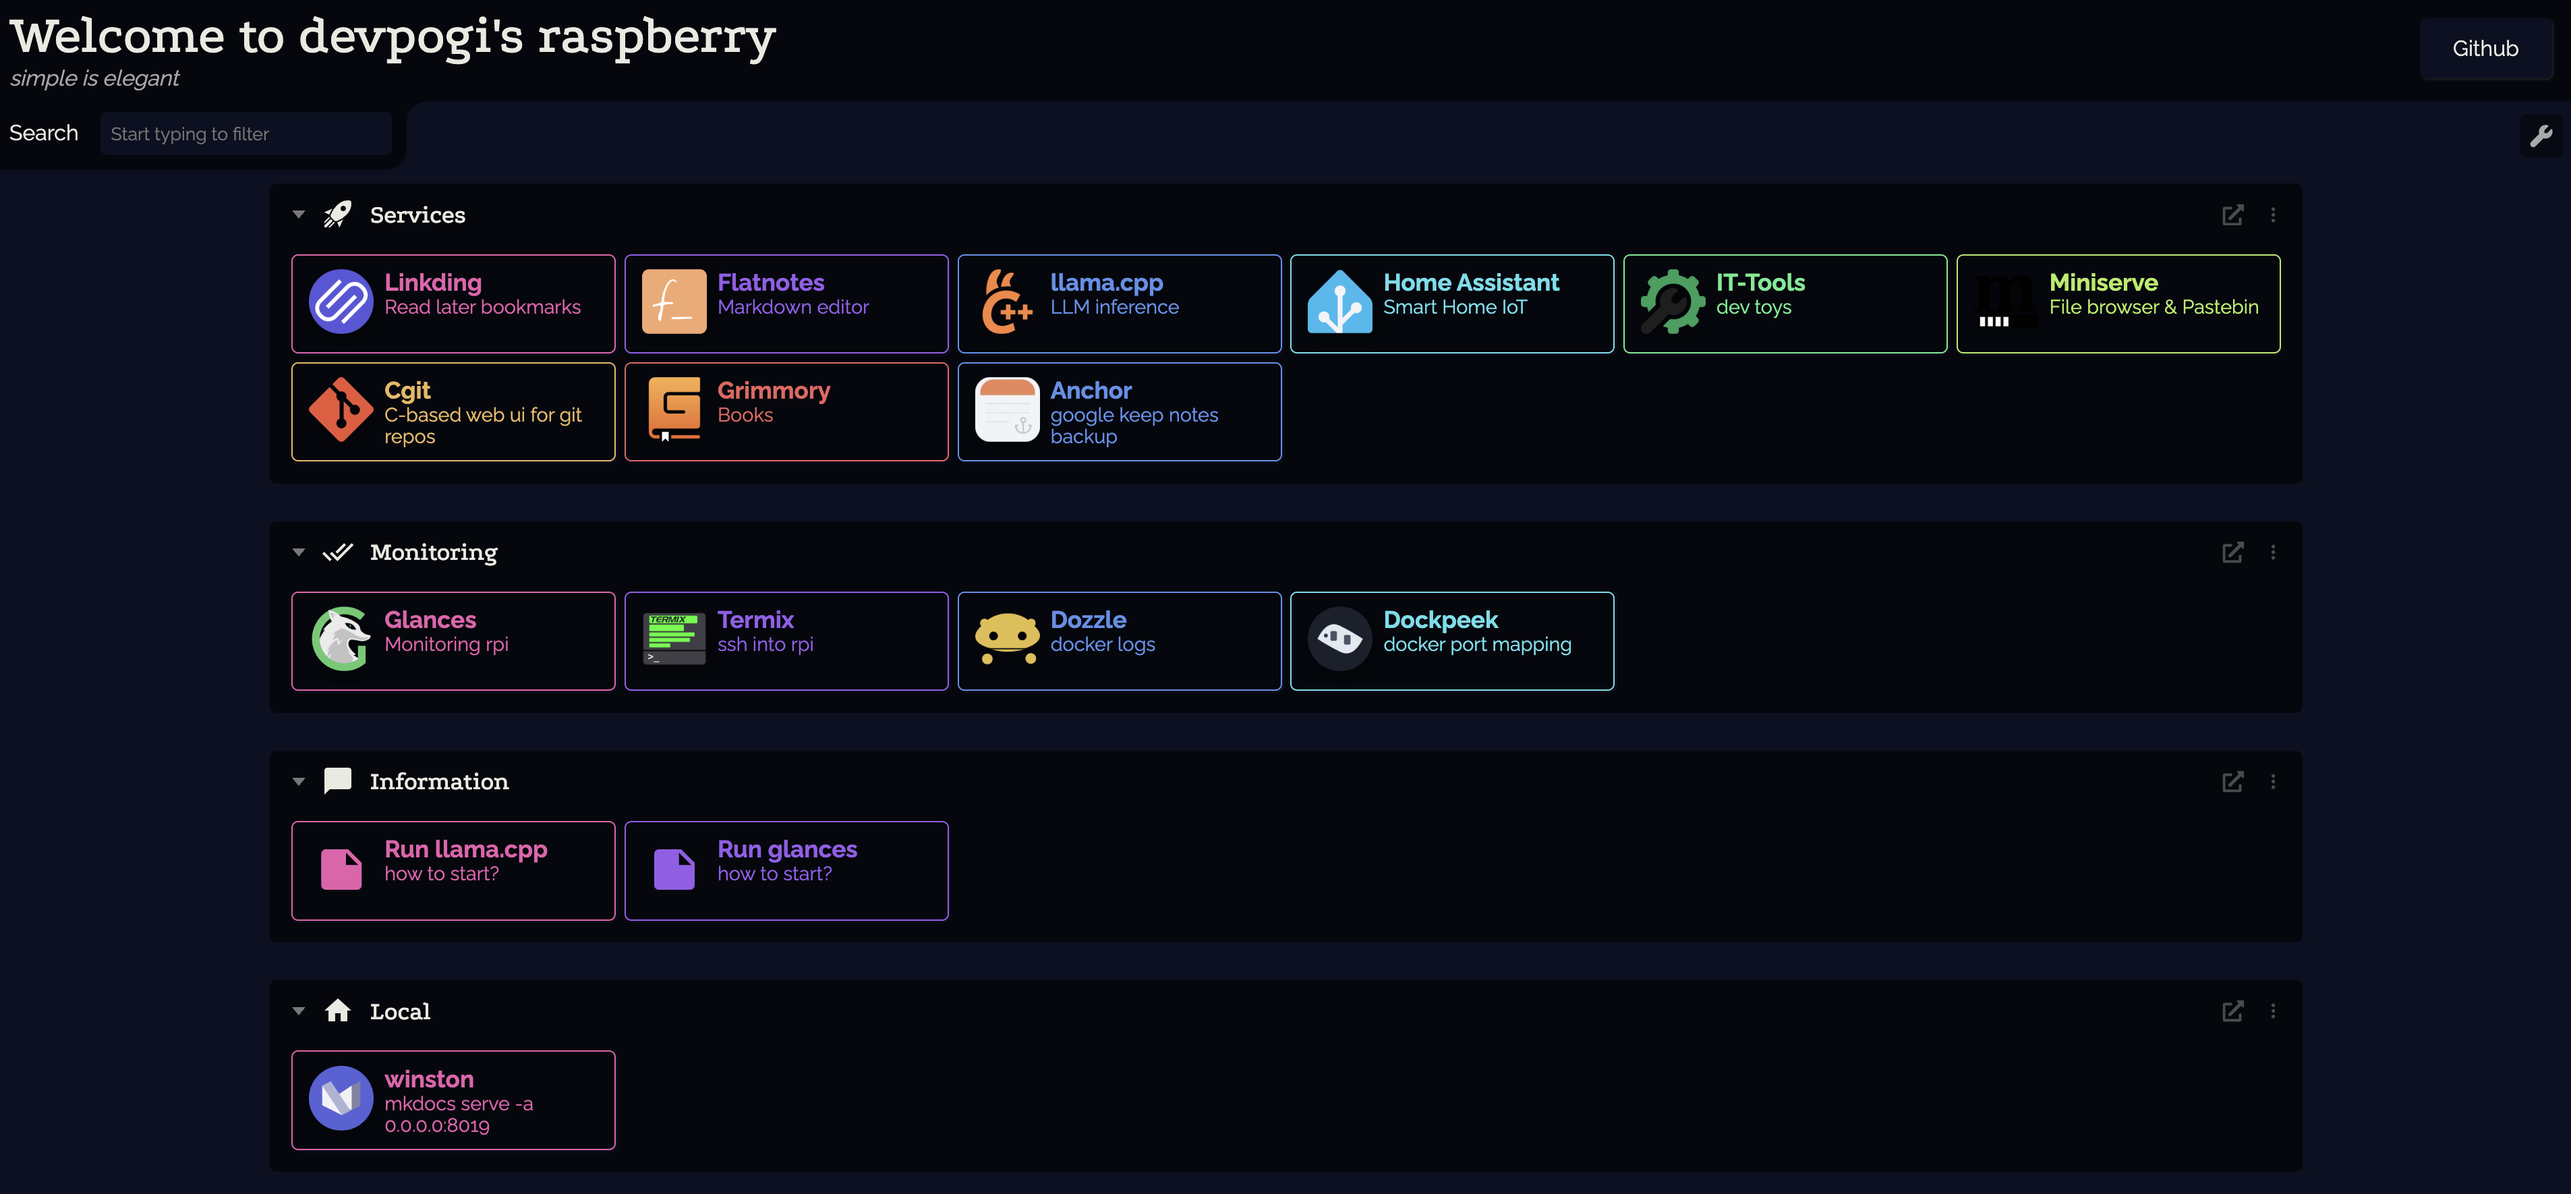
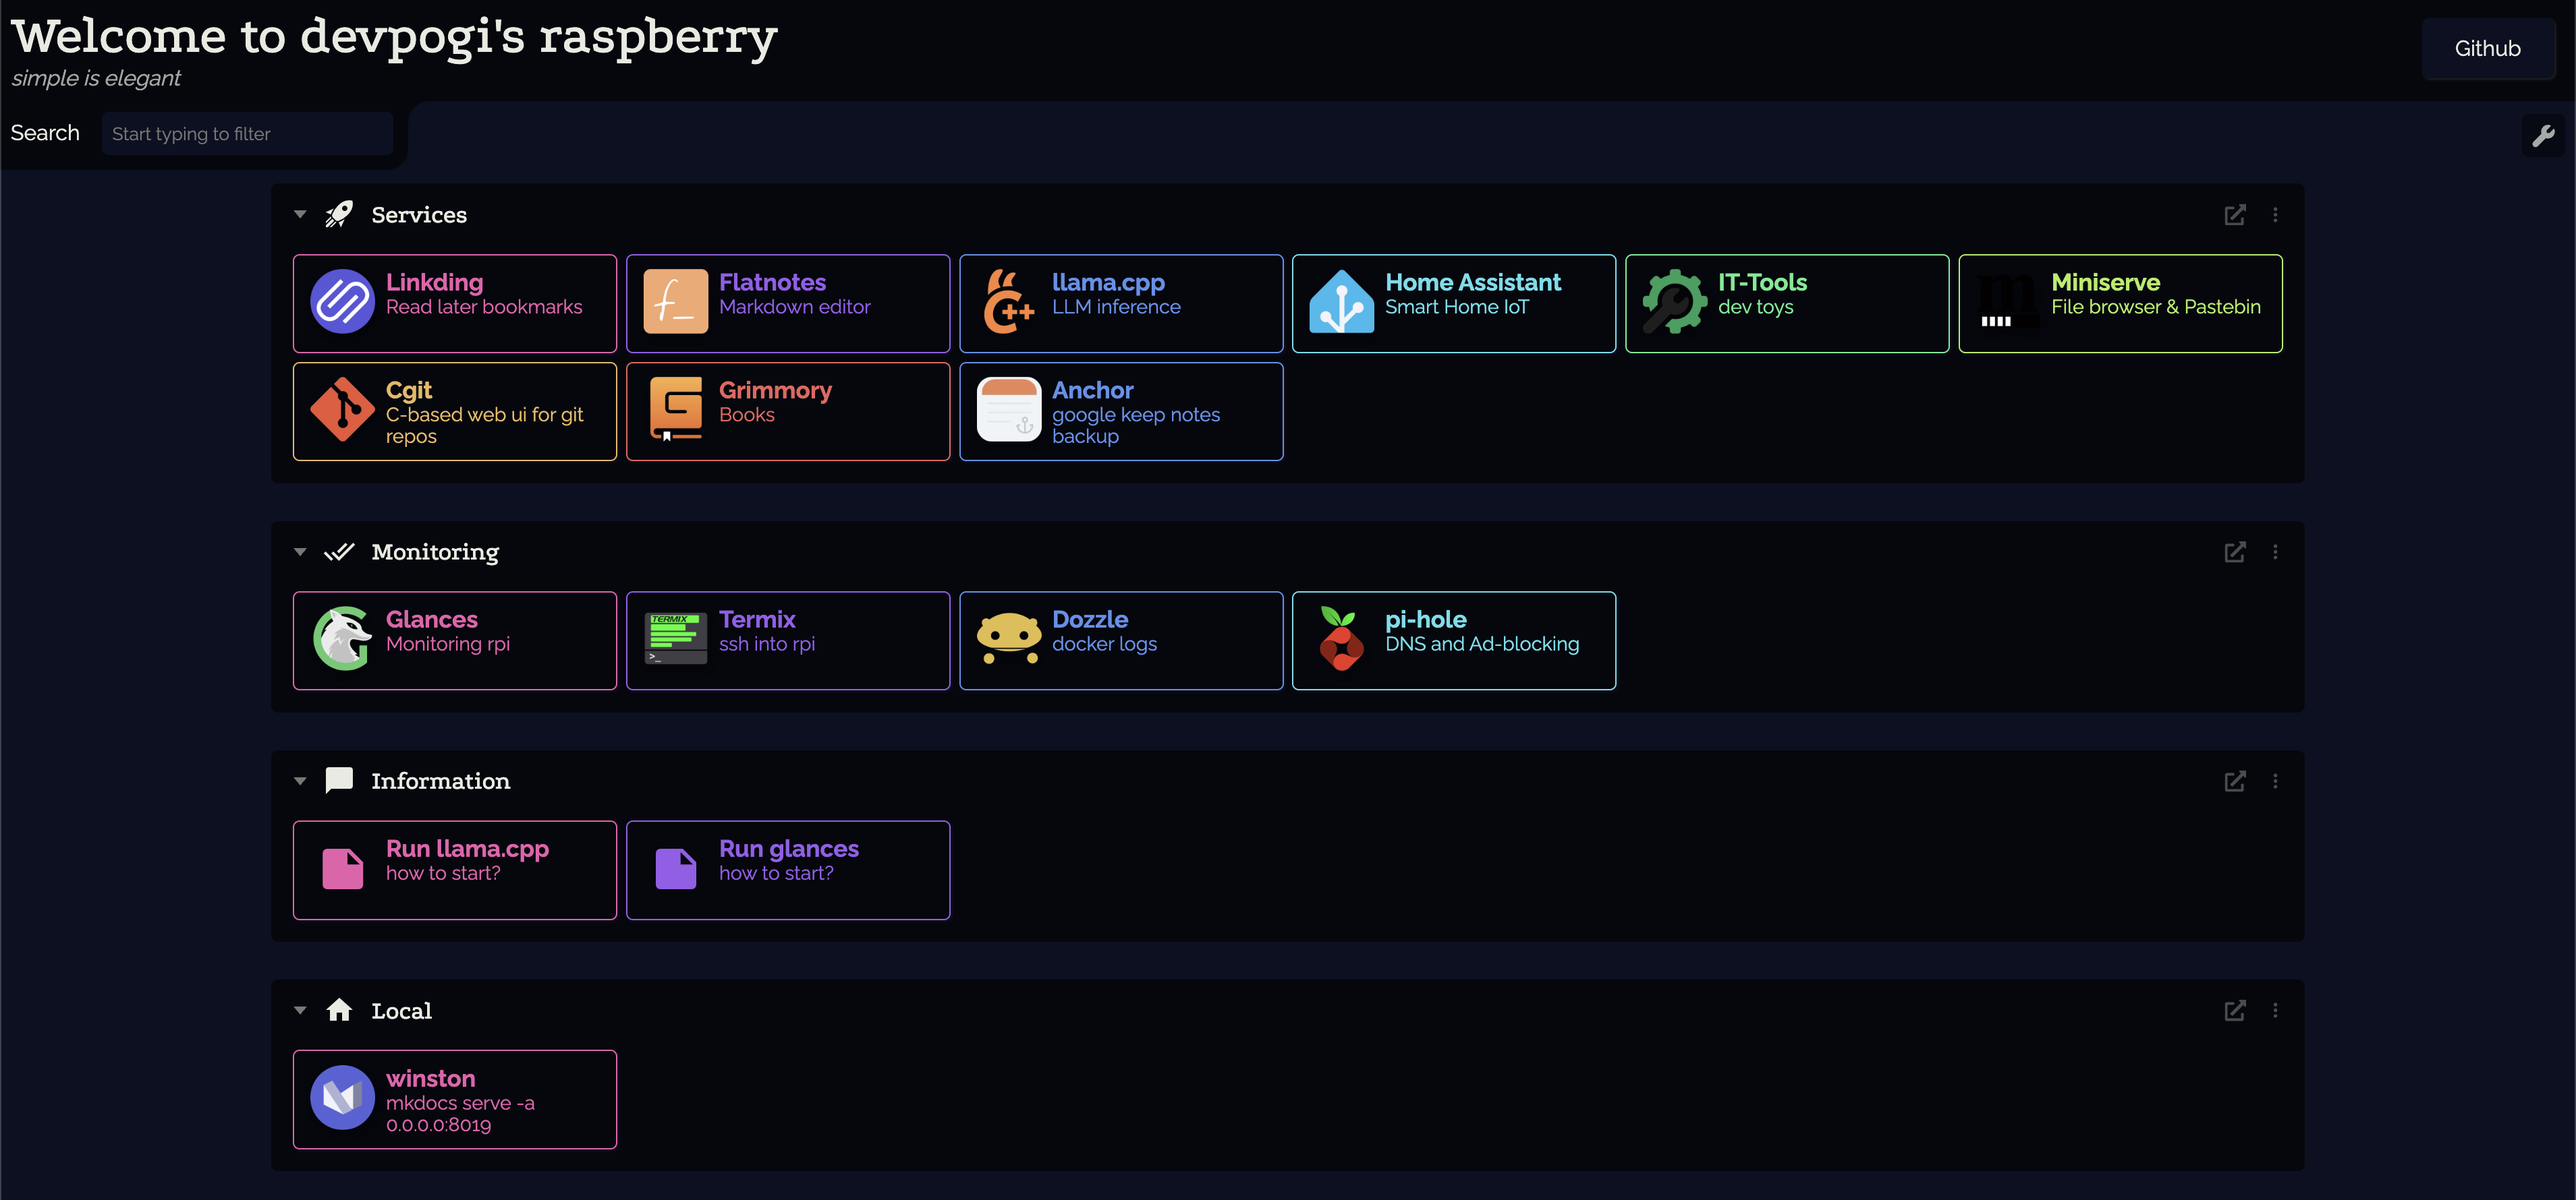
pihole

diff --git a/README.md b/README.md
@@ -11,7 +11,7 @@ Here are some screenshots:
 Dashboard with [Dashy](https://dashy.to/):  
 ![Dashboard](./attachments/dashy.png)
 
-Read it later service [Linkding](https://linkding.link/), I use it together with [Pinkit android](https://github.com/fibelatti/pinboard-kotlin):  
+Read it later service [Linkding](https://linkding.link/). I use it together with [Pinkit android](https://github.com/fibelatti/pinboard-kotlin):  
 ![Linkding](./attachments/linkding.png)
 
 Terminal access with system stats, file managment, docker management by [termix](https://github.com/Termix-SSH/Termix):  
@@ -38,7 +38,7 @@ Simple HTTP based file browser and pastebin using [Miniserve](https://github.com
 Git web interface viewer using [cgit](https://github.com/joseluisq/alpine-cgit):  
 ![alpine-cgit](./attachments/alpine_cgit.png)
 
-E-books management using [Grimmory](https://github.com/grimmory-tools/grimmory):  
+E-books management using [Grimmory](https://github.com/grimmory-tools/grimmory). I use it together with Android app [readest](https://github.com/readest/readest):  
 ![grimmory](./attachments/grimmory.png)
 
 RPI and docker:  
@@ -49,3 +49,6 @@ RPI and docker:
 
 Docker logs on web using [Dozzle](https://github.com/amir20/dozzle):
 ![dozzle](./attachments/dozzle.png)
+
+DNS and Ad blocking using [pi-hole](https://github.com/pi-hole/docker-pi-hole) with the [huge blocklist](https://firebog.net/):  
+![pi-hole](./attachments/pihole.png)
